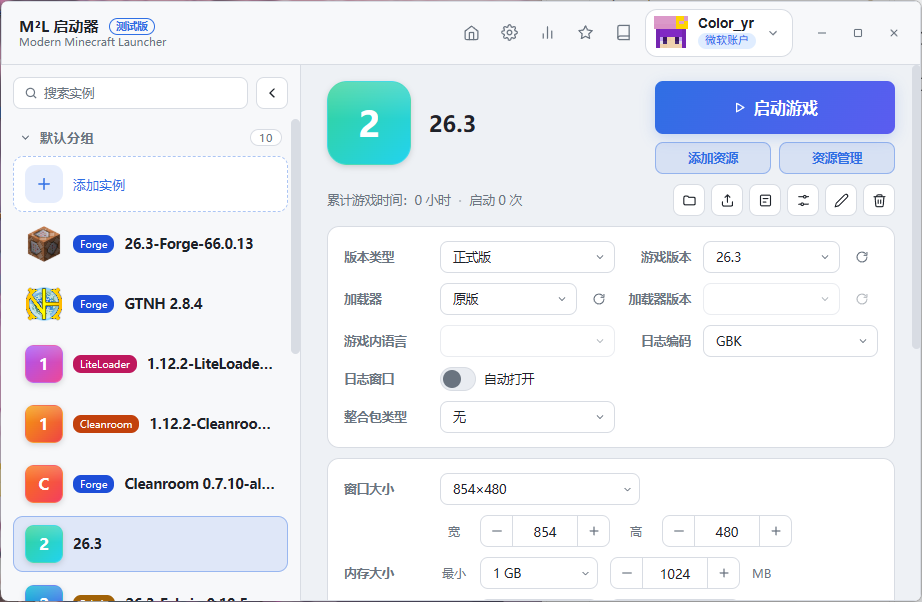
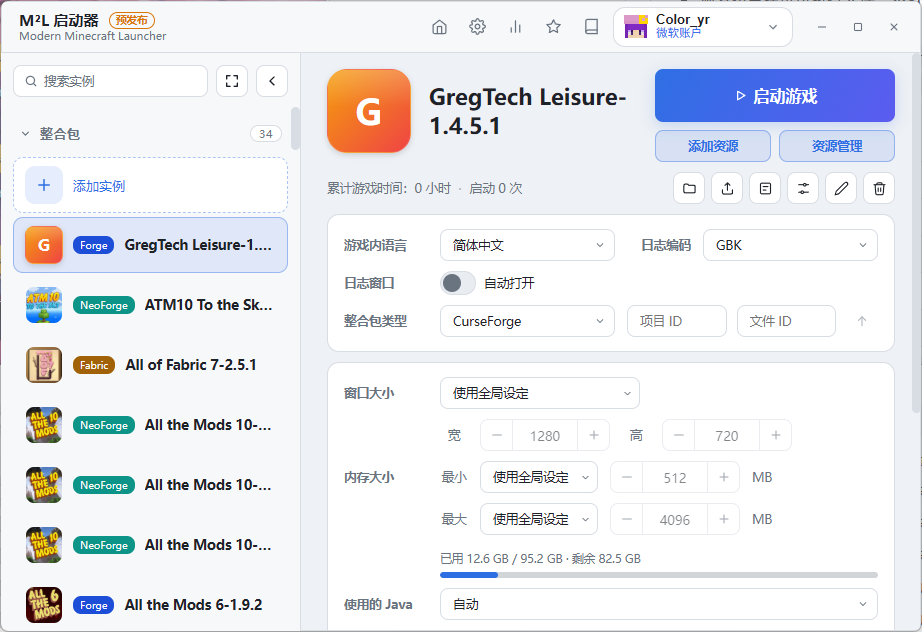
README 增加截图，更新主界面图

diff --git a/README.md b/README.md
@@ -6,7 +6,7 @@
 
 [ColorMC](https://github.com/Coloryr/ColorMC) 的迭代软件，一个 Minecraft 启动器。
 
-**未完成，请勿使用任何东西~~也不要催~~**
+**预览版，欢迎测试与提出问题**
 
 > **重要限制**：未登录过微软正版账户时，启动器禁止启动离线账户。请先添加并登录一个微软账户。
 
@@ -27,10 +27,22 @@
 | 下载 | 多线程、断点续传、哈希校验，带独立的下载管理窗口 |
 | 渲染 | 从客户端 jar 离线渲染方块 / 物品图标；皮肤、披风、头像的 2D / 3D 绘制 |
 | 迁移 | 从 ColorMC 迁移数据；导入 `.minecraft`（官方 / HMCL / PCL）；MMC 通过实例导入 |
-| 联机 | 陶瓦联机：正版账户验证、创建 / 加入房间、邀请码与直连地址；映射大厅预留 |
+| 联机(制作中) | 陶瓦联机：正版账户验证、创建 / 加入房间、邀请码与直连地址；映射大厅预留 |
 | 统计 | 每日游玩时间图、实例明细、启动次数与失败统计 |
 | 分发 | 实例导出（直接压缩 / CurseForge / Modrinth / MMC / HMCL）、生成实例信息、服务器包、服务器实例（MML / HMCL） |
 | 界面 | 多窗口与单窗口两种模式，暗色 / 亮色 / 跟随系统，中英双语；可导入自定义主页面、样式包，或整页重写主窗口 |
+
+## 截图
+
+| 启动器主页 | 实例主页 |
+| --- | --- |
+| <img src="pics/image1.png" width="440" alt="启动器主页"> | <img src="pics/image2.png" width="440" alt="实例主页"> |
+| **整合包搜索** | **资源管理** |
+| <img src="pics/image3.png" width="440" alt="整合包搜索"> | <img src="pics/image4.png" width="440" alt="资源管理"> |
+| **模组依赖关系** | **游玩统计** |
+| <img src="pics/image5.png" width="440" alt="模组依赖关系"> | <img src="pics/image6.png" width="440" alt="游玩统计"> |
+| **资源收藏** | **账户管理** |
+| <img src="pics/image7.png" width="440" alt="资源收藏"> | <img src="pics/image8.png" width="440" alt="账户管理"> |
 
 ## 快速上手
 
